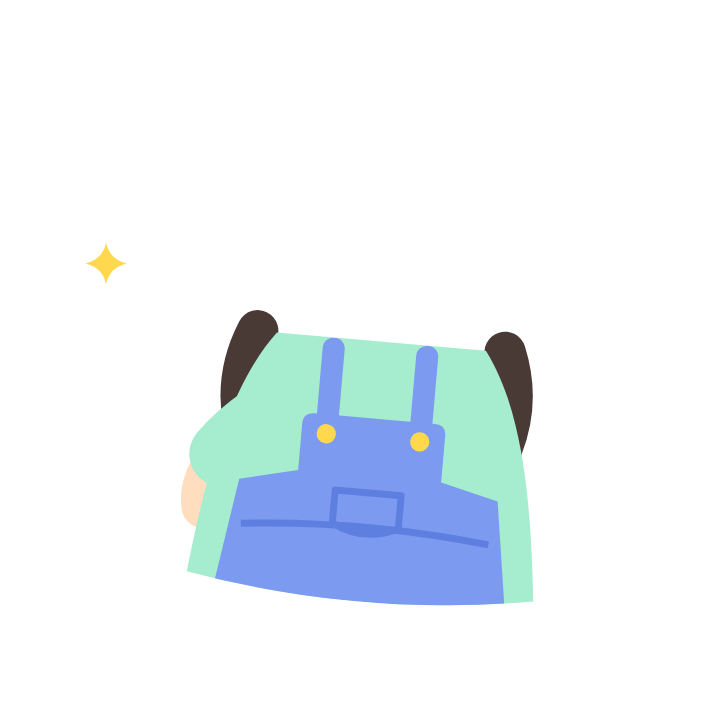
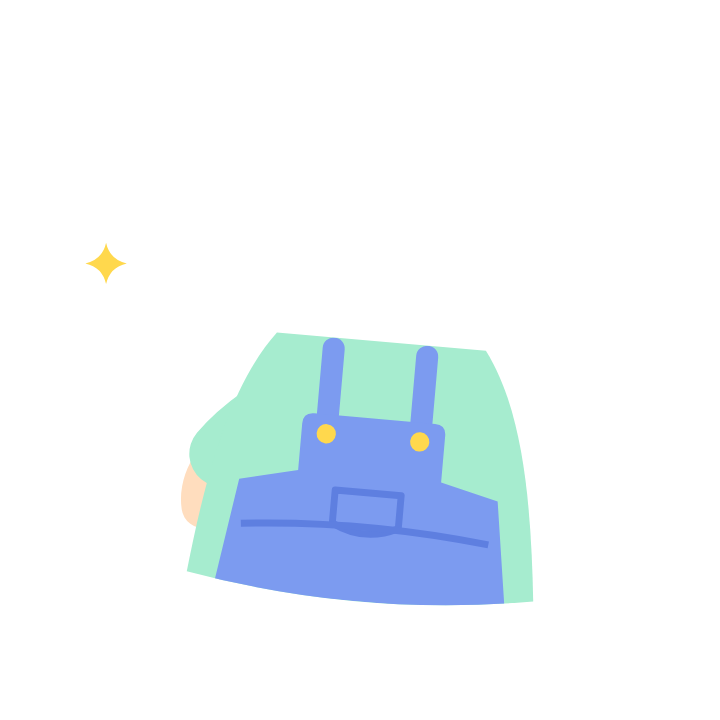
Tilt Bai Toey's braids with her head
The braids stayed fixed to the body while the head tilted. They are now
their own layer behind the body and turn around the neck in step with the
head, in both the walking and the seated pose.

Claude-Session: https://claude.ai/code/session_01YRit4BDrXmu1xBXH17a6cf

Changed region(s): [[0.6722, 0.4583, 0.7639, 0.6417], [0.3056, 0.4278, 0.3972, 0.5806]]

diff --git a/src/data/images.ts b/src/data/images.ts
@@ -101,6 +101,8 @@ export const LAYERS: Record<MascotName, Layers> = {
     parts: [
       { source: require('@/assets/images/chef/shop-legL.png'), move: 'stepL', lift: 0.03, behind: true },
       { source: require('@/assets/images/chef/shop-legR.png'), move: 'stepR', lift: 0.03, behind: true },
+      // ผมเปียอยู่หลังตัว เอียงไปพร้อมหัว (จุดหมุนและจังหวะเดียวกับ head)
+      { source: require('@/assets/images/chef/shop-braids.png'), move: 'waddle', deg: -1.5, pivot: [0.525, 0.532], behind: true },
     ],
   },
   // ใบเตยนั่งบนลัง: หายใจ เอียงคออ่านรายการ ขาแกว่งรอบสะโพกสลับกัน
@@ -111,6 +113,7 @@ export const LAYERS: Record<MascotName, Layers> = {
       { source: require('@/assets/images/chef/list-ground.png'), move: 'still', behind: true },
       { source: require('@/assets/images/chef/list-legL.png'), move: 'swingL', deg: 7, pivot: [0.439, 0.791], behind: true },
       { source: require('@/assets/images/chef/list-legR.png'), move: 'swingR', deg: 7, pivot: [0.561, 0.791], behind: true },
+      { source: require('@/assets/images/chef/list-braids.png'), move: 'ponder', deg: 2.5, pivot: [0.5, 0.531], behind: true },
     ],
   },
   // น้องชิมชิม: หายใจ เอียงคอ แขนที่ถือช้อนลดลงรอบหัวไหล่แล้วยกกลับมาที่ปาก หัวใจลอย

diff --git a/assets/images/chef/src/draw.py b/assets/images/chef/src/draw.py
@@ -120,7 +120,7 @@ def build():
     bucket = (f'<g transform="translate(240 92) scale(0.86) translate(-240 -130)"><path d="M96 132 Q240 96 384 132 Q396 150 372 156 Q240 126 108 156 Q84 150 96 132 Z" fill="{CREAM_D}"/>'
               f'<path d="M140 136 C132 60 186 26 240 26 C294 26 348 60 340 136 Q240 110 140 136 Z" fill="{CREAM}"/><path d="M146 112 Q240 88 334 112" stroke="{CREAM_D}" stroke-width="6" fill="none"/></g>')
     def toey(**k):
-        return person(S2, MINT, pinafore, toey_hair, GREEN, back=braid(150, -1) + braid(330, 1), hat=bucket, **k)
+        return person(S2, MINT, pinafore, toey_hair, GREEN, bparts={'braids': braid(150, -1) + braid(330, 1)}, hat=bucket, **k)
     A2 = lambda side, hx, hy, bx=0, by=0: arm(side, hx, hy, bx, by, S2, MINT, 0.4)
     tote = lambda x, y: (f'<path d="M{x-24} {y-4} q24 -60 48 0" stroke="{CREAM_D}" stroke-width="8" fill="none" stroke-linecap="round"/>'
         f'<path d="M{x-26} {y+2} q-20 -42 6 -58 q24 18 8 58 z" fill="{GREEN}"/><path d="M{x-2} {y+2} q-8 -50 24 -62 q18 28 -4 62 z" fill="{GREEN_L}"/><path d="M{x+16} {y+4} l20 -50 q10 4 6 14 l-12 38 z" fill="{CORAL}"/>'
@@ -170,7 +170,7 @@ POSES = build()
 SPLIT = {
     'cook': ('body', 'head', 'eyes', 'wok', 'food'), 'cheer': ('body', 'head', 'eyes', 'armL', 'armR', 'stars'),
     'think': ('body', 'head', 'eyes', 'front', 'hand', 'bubbles'), 'oops': ('body', 'head', 'eyes', 'front', 'sweat', 'lines'),
-    'shop': ('body', 'head', 'eyes', 'front', 'legL', 'legR'), 'list': ('body', 'head', 'eyes', 'front', 'ground', 'legL', 'legR'),
+    'shop': ('body', 'head', 'eyes', 'front', 'braids', 'legL', 'legR'), 'list': ('body', 'head', 'eyes', 'front', 'braids', 'ground', 'legL', 'legR'),
     'sip': ('body', 'head', 'eyes', 'front', 'spoon', 'hearts'), 'yum': ('body', 'head', 'eyes', 'arm', 'spoon', 'stars'), 'hmm': ('body', 'head', 'eyes', 'front', 'spoon', 'bubbles'),
 }
 for name, layers in SPLIT.items():
